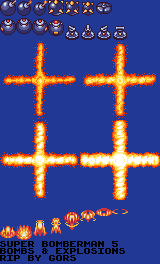
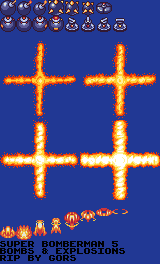
feat: bomb follower

Changed region(s): [[0.0, 0.0606, 0.8125, 0.1515]]

diff --git a/src/systems/BombSystem.js b/src/systems/BombSystem.js
@@ -54,11 +54,14 @@ export class BombSystem {
     // Check if bomb already exists at this position
     if (this.bombs.some((b) => b.tx === tx && b.ty === ty)) return false;
 
+    // Determine if this will be a follower bomb before creating sprite
+    const willBeFollower = player.hasFollowerBomb && enemies.length > 0;
+
     const bomb = {
       tx,
       ty,
       timer: this.bombFuseTicks,
-      sprite: this.createBombSprite(tx, ty),
+      sprite: this.createBombSprite(tx, ty, willBeFollower),
       soundPlayed: false,
       // Kick bomb properties
       isSliding: false,
@@ -92,7 +95,7 @@ export class BombSystem {
     };
 
     // Set as follower bomb if player has the powerup
-    if (player.hasFollowerBomb && enemies.length > 0) {
+    if (willBeFollower) {
       bomb.isFollower = true;
       bomb.targetEnemy = this.findNearestEnemy(tx, ty, enemies);
     }
@@ -122,10 +125,10 @@ export class BombSystem {
    * @param {number} tx - Bomb tile X position
    * @param {number} ty - Bomb tile Y position
    * @param {Array} enemies - Array of enemy entities
-   * @param {number} maxDistance - Maximum distance to consider (default: 2)
+   * @param {number} maxDistance - Maximum distance to consider (default: 3)
    * @returns {Object|null} Nearest enemy or null
    */
-  findNearestEnemy(tx, ty, enemies, maxDistance = 2) {
+  findNearestEnemy(tx, ty, enemies, maxDistance = 3) {
     if (!enemies || enemies.length === 0) return null;
 
     let nearest = null;
@@ -150,23 +153,31 @@ export class BombSystem {
    * Create bomb sprite
    * @param {number} tx - Tile X position
    * @param {number} ty - Tile Y position
+   * @param {boolean} isFollower - Whether this is a follower bomb
    * @returns {PIXI.DisplayObject}
    */
-  createBombSprite(tx, ty) {
+  createBombSprite(tx, ty, isFollower = false) {
     let sprite;
 
-    if (this.bombFrames && this.bombFrames.length > 0 && this.bombMapping?.bomb) {
-      // Use animated sprite with ping-pong animation
-      const frameIndices = this.bombMapping.bomb;
-      const textures = frameIndices.map(i => this.bombFrames[i]).filter(Boolean);
+    if (this.bombFrames && this.bombFrames.length > 0) {
+      // Use animated sprite with appropriate animation
+      const frameIndices = isFollower && this.bombMapping?.follower_bomb 
+        ? this.bombMapping.follower_bomb 
+        : this.bombMapping?.bomb;
+      
+      if (frameIndices) {
+        const textures = frameIndices.map(i => this.bombFrames[i]).filter(Boolean);
 
-      if (textures.length > 0) {
-        sprite = new PIXI.AnimatedSprite(textures);
-        sprite.animationSpeed = GAME_CONFIG.ANIMATION_SPEED;
-        sprite.play();
-        // Scale from 16x16 to 32x32 (2x scale)
-        sprite.scale.set(2);
-        sprite.anchor.set(0.5, 0.5);
+        if (textures.length > 0) {
+          sprite = new PIXI.AnimatedSprite(textures);
+          sprite.animationSpeed = GAME_CONFIG.ANIMATION_SPEED;
+          sprite.play();
+          // Scale from 16x16 to 32x32 (2x scale)
+          sprite.scale.set(2);
+          sprite.anchor.set(0.5, 0.5);
+        } else {
+          sprite = this.createBombGraphics();
+        }
       } else {
         sprite = this.createBombGraphics();
       }
@@ -506,15 +517,15 @@ export class BombSystem {
 
       // If target enemy is dead, doesn't exist, or moved out of range, find a new target
       if (!bomb.targetEnemy || !enemies.includes(bomb.targetEnemy)) {
-        bomb.targetEnemy = this.findNearestEnemy(bomb.tx, bomb.ty, enemies, 2);
+        bomb.targetEnemy = this.findNearestEnemy(bomb.tx, bomb.ty, enemies, 3);
         if (!bomb.targetEnemy) continue;
       } else {
-        // Check if current target is still within 2 tiles
+        // Check if current target is still within 3 tiles
         const targetTx = Math.floor(bomb.targetEnemy.sprite.x / this.tileSize);
         const targetTy = Math.floor(bomb.targetEnemy.sprite.y / this.tileSize);
         const distance = Math.abs(targetTx - bomb.tx) + Math.abs(targetTy - bomb.ty);
-        if (distance > 2) {
-          bomb.targetEnemy = this.findNearestEnemy(bomb.tx, bomb.ty, enemies, 2);
+        if (distance > 3) {
+          bomb.targetEnemy = this.findNearestEnemy(bomb.tx, bomb.ty, enemies, 3);
           if (!bomb.targetEnemy) continue;
         }
       }

diff --git a/src/loaders/bombLoader.js b/src/loaders/bombLoader.js
@@ -72,8 +72,12 @@ export async function loadBombSprite() {
     const bombFrames = [0, 1, 2];
     const pingPongFrames = bombFrames.concat(bombFrames.slice(1, -1).reverse()); // [0, 1, 2, 1]
 
+    // Create follower bomb animation with frames 10, 11, 12, 13
+    const followerBombFrames = [10, 11, 12, 13];
+
     const mapping = {
-      bomb: pingPongFrames
+      bomb: pingPongFrames,
+      follower_bomb: followerBombFrames
     };
 
     return { frames, mapping };
